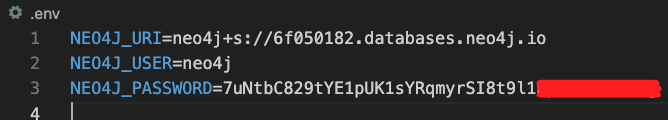
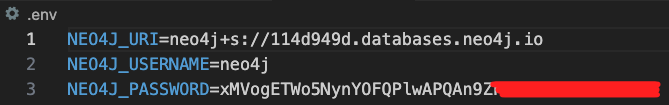
s655

diff --git a/D41_neo4j/01_步驟.md b/D41_neo4j/01_步驟.md
@@ -12,17 +12,21 @@
 
 <br>
 
-2. 這篇筆記會示範如何建立一個結合了 `Streamlit`、`neo4j` 與 `OpenAI` 的範例，也可參考 [簡易範例](https://github.com/neo4j-graph-examples/movies?tab=readme-ov-file)，或參考 [完整範例](https://github.com/tomasonjo/streamlit-neo4j-hackathon) 獲取相關說明。
+2. 這篇筆記會示範如何建立一個簡單的 `Streamlit` 應用，並訪問 `Neo4j` 資料庫進行讀寫。
 
 <br>
 
-3. 關於資料庫的部分，可先從 [Neo4j 官網首頁](https://neo4j.com/) 點擊 `Aura Login` 進行登入。
+3. 若要建立結合了 `Streamlit`、`neo4j` 與 `OpenAI` 的範例，也可參考 [簡易範例](https://github.com/neo4j-graph-examples/movies?tab=readme-ov-file)，或參考 [完整範例](https://github.com/tomasonjo/streamlit-neo4j-hackathon) 獲取相關說明。
+
+<br>
+
+4. 關於資料庫的部分，可先從 [Neo4j 官網首頁](https://neo4j.com/) 點擊 `Aura Login` 進行登入。
 
     ![](images/img_38.png)
 
 <br>
 
-4. 關於 Neo4j 資料庫的連線測試可使用 [ Neo4j官方資系統](https://demo.neo4jlabs.com:7473/browser/) 進行。
+5. 關於 Neo4j 資料庫的連線測試可使用 [ Neo4j官方資系統](https://demo.neo4jlabs.com:7473/browser/) 進行。
 
 <br>
 
@@ -175,16 +179,21 @@ _以上完成註冊與建立實體的基本程序_
 
 <br>
 
-7. 建立並進入專案資料夾，緊接著啟動 VSCode。
+7. 在專案資料夾中啟動 VSCode。
 
     ```bash
-    makir _exNeo4j_ && cd _exNeo4j_ && code .
+    code .
     ```
 
 <br>
 
 8. 建立一個腳本 `utility.py`，並編輯代碼如下。
 
+    ```bash
+    touch utility.py
+    ```
+
+    _腳本內容_
     ```python
     from neo4j import GraphDatabase
 
@@ -211,8 +220,11 @@ _以上完成註冊與建立實體的基本程序_
 
 <br>
 
-9. 建立主腳本 `app.py`，其中 URI、USER、PASSWORD 需要使用自己的敏感資訊。
+9. 建立主腳本 `app.py`，其中 URI、USER、PASSWORD 需要使用自己憑證內的資訊，關於這些敏感資訊將在下一個步驟說明建立方式。
 
+    ![](images/img_47.png)
+    
+    _腳本內容_
     ```python
     import streamlit as st
     from utility import get_neo4j_session, load_movie_data
@@ -277,7 +289,7 @@ _緊接著上一個步驟來處理_
 
     ```json
     NEO4J_URI=neo4j+s://<db_id>.databases.neo4j.io
-    NEO4J_USER=neo4j
+    NEO4J_USERNAME=neo4j
     NEO4J_PASSWORD=your_password
     ```
     
@@ -287,7 +299,7 @@ _緊接著上一個步驟來處理_
 
 <br>
 
-4. 修改主腳本 `app.py` 載入 `.env` 文件。
+1. 修改主腳本 `app.py` 載入 `.env` 文件。
 
     ```python
     import streamlit as st
@@ -301,7 +313,7 @@ _緊接著上一個步驟來處理_
 
     # 資料庫連接資訊
     URI = os.getenv("NEO4J_URI")
-    USER = os.getenv("NEO4J_USER")
+    USER = os.getenv("NEO4J_USERNAME")
     PASSWORD = os.getenv("NEO4J_PASSWORD")
 
 
